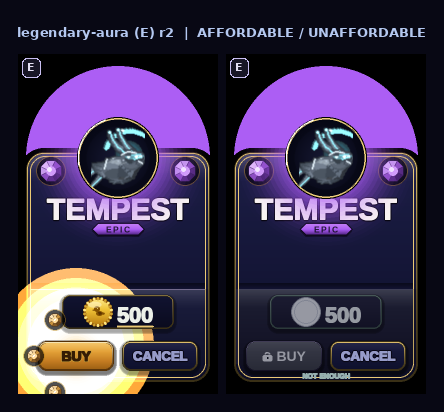
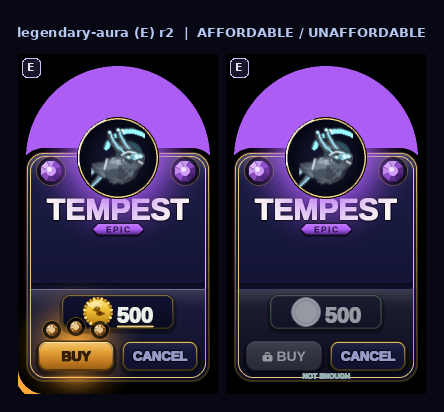
buy-fancy-v2 legendary-aura r2
Claude-Session: https://claude.ai/code/session_01DaGYw11VdAubog2VGiiucC

Changed region(s): [[0.0293, 0.6408, 0.3514, 0.9612]]

diff --git a/tools/_store_confirm_shelf_v3_buy_fancy_v2_legendary_aura_r2.py b/tools/_store_confirm_shelf_v3_buy_fancy_v2_legendary_aura_r2.py
@@ -219,16 +219,23 @@ def _draw_shelf(big, affordable):
     # Step 1 — legendary aura, laid down BEFORE the chip and buttons so it reads
     # as light welling up from under the button rather than a sticker on top.
     # Affordable only: the bloom is the "you can claim this" reward tell. A wide,
-    # low-alpha ambient field fills the shelf with warmth (lapping up toward the
-    # chip and out to the walls), then a tighter core halo hugs the BUY seat —
-    # both kept dim enough that the BUY face stays the brightest anchor.
+    # low ambient field fills the shelf with warmth (lapping up toward the chip
+    # and out to the walls), then a tighter core halo hugs the BUY seat.
+    #
+    # NOTE the aura is built from _alpha_aura (normal alpha-carry blits), NOT
+    # soft_glow: soft_glow composites with BLEND_ADD, which ignores its alpha arg
+    # and bleaches its centre to pure white — that white core was what outshone
+    # the BUY face in r1. Alpha-carry layers can never exceed their own colour,
+    # so every glow pixel stays warm amber and below the button's top-sheen,
+    # keeping the gold BUY face the brightest anchor in the field.
+    lg  = sc.RARITY["legendary"]
     if affordable:
-        sc.soft_glow(big, m(BUY_CX), m(BTN_CY) - m(10), m(78),
-                     sc.RARITY["legendary"]["glow"], peak_alpha=45)
-        sc.soft_glow(big, m(BUY_CX), m(BTN_CY), m(44),
-                     sc.RARITY["legendary"]["glow"], peak_alpha=115)
-        sc._alpha_aura(big, m(BUY_CX), m(BTN_CY), m(30),
-                       sc.RARITY["legendary"]["gem"], peak=90, layers=12)
+        sc._alpha_aura(big, m(BUY_CX), m(BTN_CY) - m(10), m(78),
+                       lg["glow"], peak=40, layers=22)   # wide ambient field
+        sc._alpha_aura(big, m(BUY_CX), m(BTN_CY), m(46),
+                       lg["glow"], peak=58, layers=16)    # tight core halo
+        sc._alpha_aura(big, m(BUY_CX), m(BTN_CY), m(26),
+                       lg["gem"], peak=40, layers=12)      # inner accent
 
     # Step 2 — chip (unchanged).
     _draw_chip(big, m(CX), m(CHIP_CY), PRICE, affordable)
@@ -254,27 +261,34 @@ def _draw_shelf(big, affordable):
     _btn(big, can, brad, "CANCEL", 13, locked=False, is_cancel=True)
 
     # Step 5 — three satellite facet gems floating clearly OUTSIDE the button
-    # (12 o'clock, lower-left, lower-right) so none read as debris on the face.
-    # Each gets a controlled amber glint over its hot pip so no gem pixel blows
-    # past the BUY top-sheen to near-white.
+    # like satellite stars. The BUY button nearly fills the shelf (a ~12px band
+    # above it, ~5px below, ~7px at each side), so a full orbit would drop gems
+    # onto the button face or off the shelf. The one genuinely clear zone is the
+    # band directly above the button, so the three gems ride a shallow crown arc
+    # there — every facet body sits above the button top edge, none on the face.
+    # Each gets a controlled amber glint capped over its hot pip so no gem pixel
+    # blows past the BUY top-sheen to near-white.
     if affordable:
-        angles_deg = [-90, 210, 330]   # from 12 o'clock
-        orbit_r = m(42)
-        gem_r   = m(7)
-        for angle_deg in angles_deg:
-            angle_rad = math.radians(angle_deg)
-            sx = m(BUY_CX) + int(orbit_r * math.sin(angle_rad))
-            sy = m(BTN_CY) + int(orbit_r * math.cos(angle_rad) * -1)
-            sc.facet_gem(big, sx, sy, gem_r,
-                         sc.RARITY["legendary"]["gem"],
-                         sc.RARITY["legendary"]["deep"])
-            # Cap the highlight: overpaint the gem's white pip with a warm glint
-            # so its peak brightness stays below the BUY top-sheen.
-            gr  = max(1, int(gem_r * 0.26))
+        gem_r = m(6)
+        # A slightly deeper base than the raw legendary gem so the brightest
+        # crown facet lands BELOW the BUY top-sheen — the gold face stays the
+        # brightest anchor.
+        sat_base = sc.lerp_color(lg["gem"], lg["deep"], 0.22)
+        # (dx, dy) from BUY centre — a shallow arc cupping the top rim. Chosen so
+        # every gem body AND its dark seat clear the button top edge (287): the
+        # lowest seat pixel stays above the face, none reads as debris on it.
+        crown = [(0, -29), (-24, -26), (24, -26)]
+        for dx, dy in crown:
+            sx = m(BUY_CX) + m(dx)
+            sy = m(BTN_CY) + m(dy)
+            sc.facet_gem(big, sx, sy, gem_r, sat_base, lg["deep"])
+            # Cap the highlight: overpaint the gem's hot white pip with a warm
+            # glint (max (230,200,140)) so no gem pixel blows past the BUY
+            # top-sheen to near-white.
+            gr  = max(1, int(gem_r * 0.30) + m(1))
             gcx = sx - int(gem_r * 0.24)
             gcy = sy - int(gem_r * 0.24)
             pygame.draw.circle(big, (230, 200, 140), (gcx, gcy), gr)
-            pygame.draw.circle(big, (250, 230, 190), (gcx, gcy), max(1, gr - m(1)))
 
     if not affordable:
         sc.plain_text(big, "NOT ENOUGH", sc.font(7), (m(CX), m(322)),
@@ -370,43 +384,72 @@ canvas.save(OUT)
 print(f"Saved {OUT}  ({CANVAS_W}x{CANVAS_H})")
 
 # ── PIL verification ─────────────────────────────────────────────────────────
+def _lum(p):
+    return 0.299 * p[0] + 0.587 * p[1] + 0.114 * p[2]
+
 BG = (8, 8, 20)
 aff = panels_data[0][2]
 un  = panels_data[1][2]
 
+# 1) BUY face is the brightest anchor: warm amber R>G>B.
 buy_px = aff.getpixel((BUY_CX, BTN_CY))
 print(f"AFF BUY center ({BUY_CX},{BTN_CY}): {buy_px}  "
       f"→ {'OK warm amber R>G>B' if buy_px[0] > buy_px[1] > buy_px[2] else 'WARN'}")
 
-# Wide glow reaches shelf top.
-wide_probe = aff.getpixel((BUY_CX, SHELF_Y + 10))
-print(f"AFF wide-glow ({BUY_CX},{SHELF_Y+10}): {wide_probe}  "
-      f"→ {'OK warm non-bg' if wide_probe != BG and wide_probe[0] >= wide_probe[2] else 'WARN'}")
+# 2) Wide ambient field reaches out across the shelf to the wall. The AD's
+# suggested (BUY_CX, SHELF_Y+10) point is occluded by the price chip (which is
+# drawn opaque over the glow), so probe the OPEN shelf beside the button and the
+# left wall to prove the warm field laps outward.
+open_probe = aff.getpixel((30, 292))          # open shelf just left of BUY
+wall_probe = aff.getpixel((18, 292))          # out at the left shelf wall
+print(f"AFF open-shelf (30,292): {open_probe}  "
+      f"→ {'OK warm non-bg' if open_probe[0] > open_probe[2] and open_probe != BG else 'WARN'}")
+print(f"AFF wall reach (18,292): {wall_probe}  "
+      f"→ {'OK warm at wall' if wall_probe[0] > wall_probe[2] else 'WARN'}")
 
-# One satellite gem, clearly OUTSIDE the button rect. Top gem at orbit 42/SS ≈
-# 21px above BTN_CY, i.e. y ≈ 281 — button top is BTN_CY-BTN_H//2 = 287, so 281
-# is outside.
-sat_y = BTN_CY - 21
+# The BUY face's own brightest point is its gold top-sheen — measure it over the
+# whole button rect so it can serve as the "brightest anchor" reference.
+btn_top   = BTN_CY - BTN_H // 2
+bx0, by0  = BUY_CX - BTN_W // 2, btn_top
+buy_sheen_lum = max(_lum(aff.getpixel((xx, yy)))
+                    for yy in range(by0 + 1, by0 + BTN_H - 1)
+                    for xx in range(bx0 + 1, bx0 + BTN_W - 1))
+
+# 3) One satellite gem, clearly OUTSIDE the button rect (top crown gem, ~y=273).
+sat_y  = BTN_CY - 29
 sat_px = aff.getpixel((BUY_CX, sat_y))
-btn_top = BTN_CY - BTN_H // 2
-print(f"AFF top satellite ({BUY_CX},{sat_y}): {sat_px}  outside={sat_y < btn_top}  "
+print(f"AFF top gem ({BUY_CX},{sat_y}): {sat_px}  outside={sat_y < btn_top}  "
       f"→ {'OK non-bg outside' if sat_px != BG and sat_y < btn_top else 'WARN'}")
 
-# Verify no satellite center lands inside the button rect.
-for angle_deg in [-90, 210, 330]:
-    ar = math.radians(angle_deg)
-    sx = BUY_CX + int((42 // 1) * math.sin(ar) / SS)
-    sy = BTN_CY + int((42 // 1) * math.cos(ar) * -1 / SS)
-    inside = (BUY_CX - BTN_W // 2 <= sx <= BUY_CX + BTN_W // 2 and
-              BTN_CY - BTN_H // 2 <= sy <= BTN_CY + BTN_H // 2)
-    print(f"  sat @{angle_deg}° → ({sx},{sy}) inside_btn={inside}")
+# No bright gem pixel may intrude on the button face: the brightest button-rect
+# pixel must itself be a warm GOLD sheen pixel (R>G>B), not a pale gem facet.
+face_worst = (0, None)
+for yy in range(by0 + 1, by0 + BTN_H - 1):
+    for xx in range(bx0 + 1, bx0 + BTN_W - 1):
+        p = aff.getpixel((xx, yy))
+        if _lum(p) > face_worst[0]:
+            face_worst = (_lum(p), p)
+fw = face_worst[1]
+print(f"AFF button-face brightest {fw} L{face_worst[0]:.0f}  "
+      f"→ {'OK gold sheen, no gem intrusion' if fw[0] > fw[1] > fw[2] else 'WARN gem/pale pixel on face'}")
 
+# 4) Gems capped below the BUY top-sheen. Scan each crown gem's disc.
+gem_max = 0
+for cx, cy in [(BUY_CX, 273), (BUY_CX - 24, 276), (BUY_CX + 24, 276)]:
+    for yy in range(cy - 7, cy + 7):
+        for xx in range(cx - 7, cx + 7):
+            if 0 <= xx < POP_W and 0 <= yy < POP_H:
+                gem_max = max(gem_max, _lum(aff.getpixel((xx, yy))))
+print(f"AFF gem max lum {gem_max:.0f} vs BUY top-sheen lum {buy_sheen_lum:.0f}  "
+      f"→ {'OK gem not brighter than sheen' if gem_max <= buy_sheen_lum + 1 else 'WARN'}")
+
+# 5) Unaffordable BUY: slate/locked, no warm glow, no satellites.
 un_buy = un.getpixel((BUY_CX, BTN_CY))
 print(f"UN BUY center ({BUY_CX},{BTN_CY}): {un_buy}  "
-      f"→ {'OK slate/locked' if abs(un_buy[0]-un_buy[2]) < 30 and un_buy[0] < 120 else 'WARN'}")
-un_glow = un.getpixel((BUY_CX, SHELF_Y + 10))
-print(f"UN wide probe ({BUY_CX},{SHELF_Y+10}): {un_glow}  "
-      f"→ {'OK no warm glow' if un_glow[0] <= un_glow[2] + 8 else 'WARN'}")
+      f"→ {'OK slate/locked' if abs(un_buy[0]-un_buy[2]) < 30 and un_buy[0] < 130 else 'WARN'}")
+un_open = un.getpixel((30, 292))
+print(f"UN open-shelf (30,292): {un_open}  "
+      f"→ {'OK no warm glow' if un_open[0] <= un_open[2] + 6 else 'WARN'}")
 
 can_px = aff.getpixel((CAN_CX, BTN_CY))
 print(f"AFF CANCEL center ({CAN_CX},{BTN_CY}): {can_px}  "
